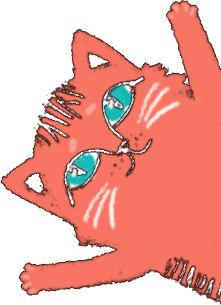
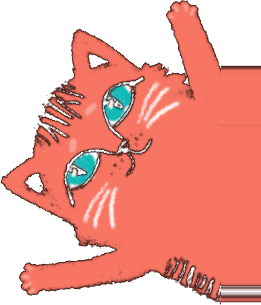
WP draft: kitty swings in with a little whiplash
Claude-Session: https://claude.ai/code/session_01Mg7JHfd7JMi4qv4ZgSkxM5

diff --git a/index.html b/index.html
@@ -619,7 +619,7 @@
   .wp-choice .chev-ic path, .wp-go .chev-ic path { stroke-width: 4.2; }
   .wp-tour-btn { top: 76.5%; padding-left: 14%; }
   .wp-skip-btn { top: 87.3%; padding-left: 8%; }
-  .wp-cat { position: absolute; right: 0; width: 40%; top: 43%; pointer-events: none; }
+  .wp-cat { position: absolute; right: -7.2%; width: 47.2%; top: 43%; pointer-events: none; }
   .wp-word { position: absolute; left: 27.8%; top: 22.6%; width: 44%; display: flex; gap: 2.2%; }
   .wp-word i { flex: 1; height: 9px; background: #fff; }
   .wp-say { position: absolute; left: 75%; top: 15.8%; width: 13%; aspect-ratio: 56 / 46; display: grid; place-items: center; }
@@ -654,7 +654,7 @@
   .wp-b4::before { content: ""; position: absolute; bottom: calc(100% - 1px); left: 66%; width: 70px; height: 66px; background: var(--coral); clip-path: path("M0 66 C40 50 64 28 69 0 C62 24 60 50 66 66 Z"); }
   .wp-page .wp-go { display: inline-flex; align-items: center; font-weight: 700; font-size: 30px; padding: 8px 12px; color: #000 !important; }
   .wp-go .chev-ic.two { width: 19px; height: 15px; margin-left: 6px; }
-  .wp-cat.t4 { top: 45%; width: 37%; }
+  .wp-cat.t4 { top: 45%; width: 43.7%; right: -6.7%; }
   .wp-note { position: absolute; left: 10%; right: 10%; top: 48%; margin: 0; text-align: center; color: var(--dim); font-size: 18px; line-height: 1.4; }
   .wp-note a { color: var(--coral); }
   /* smooth, ease-in-out changes between tour steps */
@@ -662,9 +662,16 @@
   .wp-page [data-on].wp-leave { animation: wp-fade-out .4s cubic-bezier(.42,0,.58,1) both; pointer-events: none; }
   @keyframes wp-fade { from { opacity: 0; } }
   @keyframes wp-fade-out { to { opacity: 0; } }
-  .wp-page .wp-cat { animation: wp-pop .5s cubic-bezier(.42,0,.58,1) .05s both; }
+  .wp-page .wp-cat { transform-origin: 85% 60%; animation: wp-pop .75s cubic-bezier(.42,0,.58,1) .05s both; }
   .wp-page .wp-cat.wp-leave { animation: wp-fade-out .4s cubic-bezier(.42,0,.58,1) both; }
-  @keyframes wp-pop { from { transform: translateX(105%); } }
+  /* kitty swings in from the side, pivoting on the screen edge, overshoots a little and settles (whiplash) */
+  @keyframes wp-pop {
+    0%   { transform: translateX(70%) rotate(55deg); }
+    55%  { transform: translateX(-3%) rotate(-9deg); }
+    75%  { transform: translateX(1%) rotate(4deg); }
+    90%  { transform: rotate(-1.5deg); }
+    100% { transform: none; }
+  }
   .wp-page .wp-bubble { animation: wp-in .45s cubic-bezier(.42,0,.58,1) both; }
   .wp-page .wp-b4 { animation-delay: .5s; }
   .wp-x { transition: opacity .4s cubic-bezier(.42,0,.58,1); }
